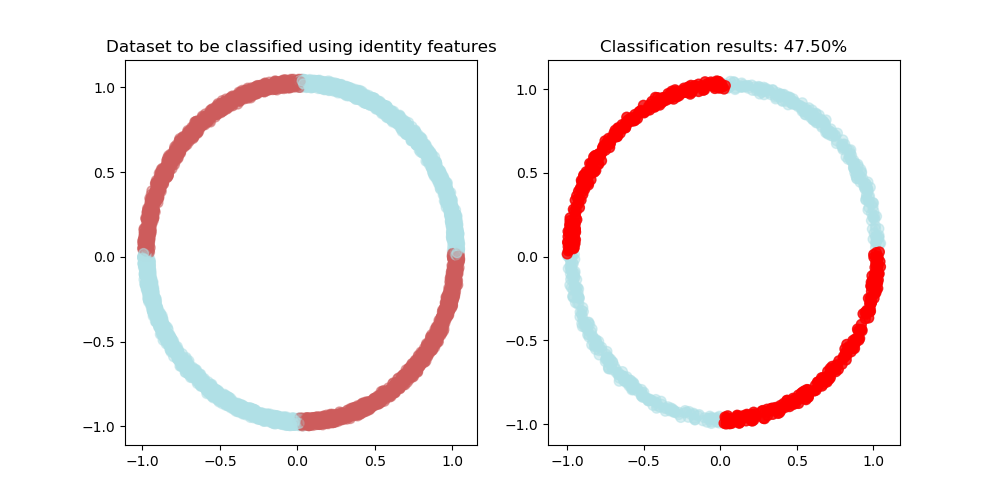
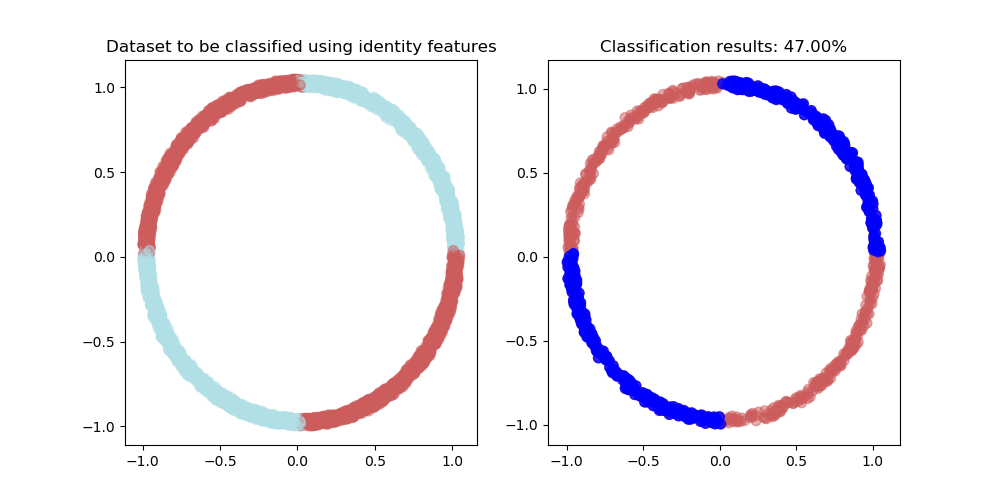
Completed up to HOG

diff --git a/Problem_1/svm_tf.py b/Problem_1/svm_tf.py
@@ -15,14 +15,18 @@ def identity_phi(x):
 
 def circle_phi(x):
     ######### Your code starts here #########
-
+    opp_over_adj = x[:,1] / x[:,0]
+    opp_over_adj = np.reshape(opp_over_adj, (-1, 1))
+    x = np.append(x, opp_over_adj, 1)
     ######### Your code ends here #########
     return x
 
 
 def inner_circle_phi(x):
     ######### Your code starts here #########
-    
+    circle = x[:,0]**2 + x[:,1]**2
+    circle = np.reshape(circle, (-1, 1))
+    x = np.append(x, circle, 1)
     ######### Your code ends here #########
     return x
 
@@ -60,10 +64,6 @@ def loss(y_est, y, W, lam):
     """
     y = tf.cast(y, dtype=tf.float32)
     ######### Your code starts here #########
-    #lamW2 = tf.matmul(lam, tf.square(W))
-    #hingeLoss = tf.max(0, tf.subtract(1, tf.matmul(y, y_est)))
-    #n = tf.size
-    #loss = tf.min(tf.divide(tf.sum(tf.add(hingeLoss, lamW2)), n))
     loss = tf.keras.losses.hinge(y, y_est)
     ######### Your code ends here #########
     return loss
